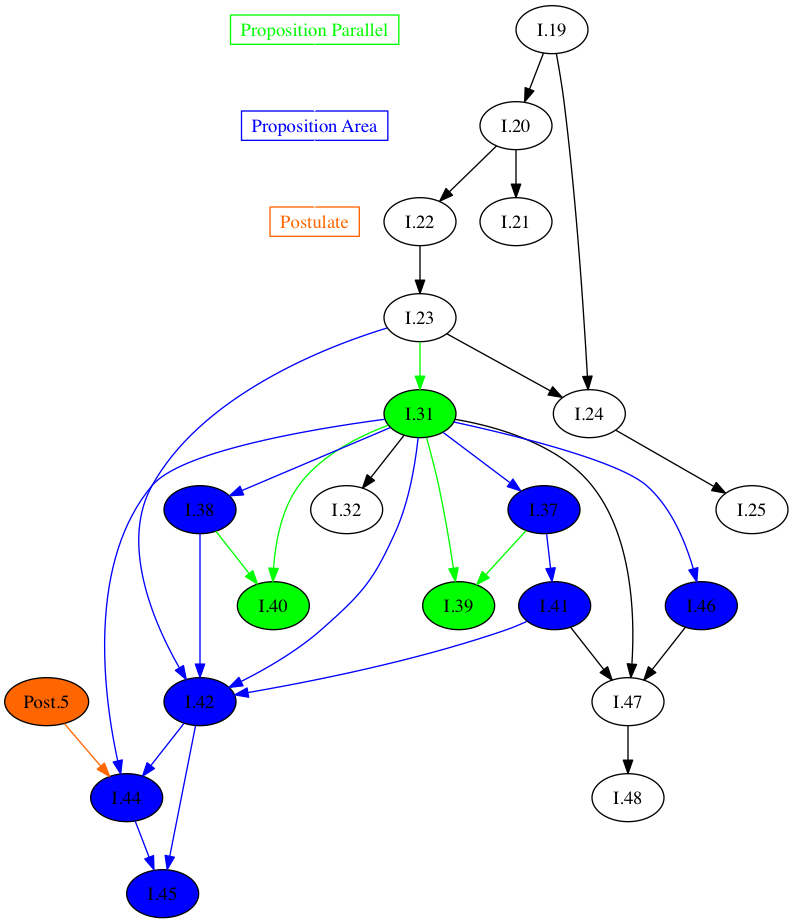
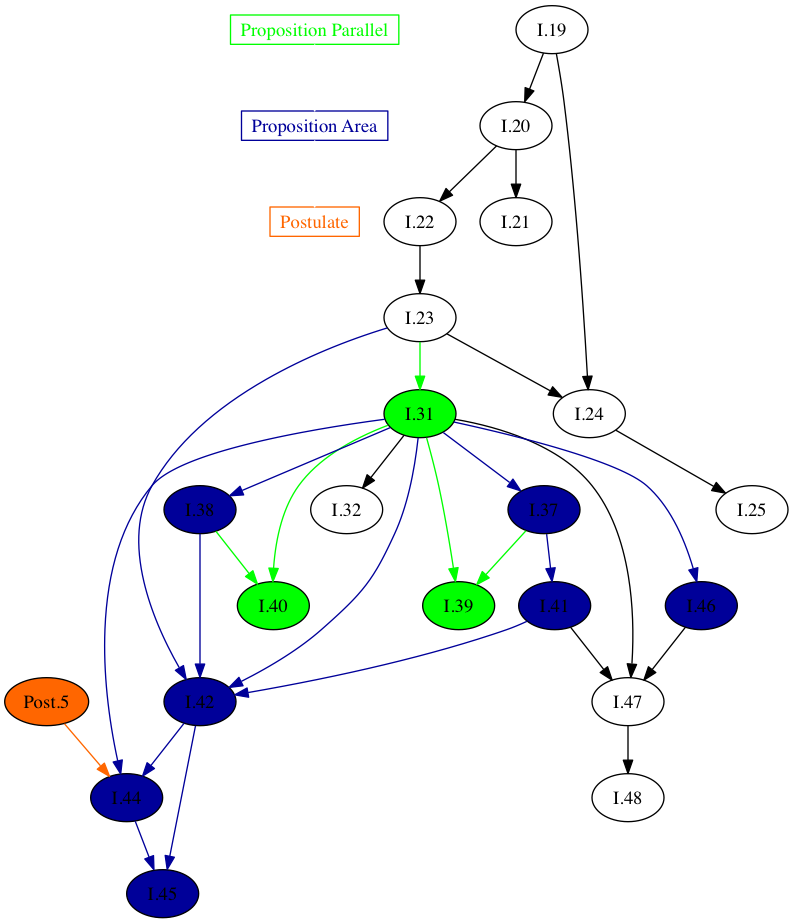
change color

diff --git a/assignment of history of mathematics/draw_structure.py b/assignment of history of mathematics/draw_structure.py
@@ -50,7 +50,7 @@ prop_prop_list = []
 prop_cn_list = []
 prop_post_list = []
 prop_nodes = []
-colors = ['#FF0000', '#00FF00', '#0000FF', '#FF6600', '#FF00FF', ]
+colors = ['#FF0000', '#00FF00', '#0066FF', '#FF6600', '#FF00FF', ]
 
 def add_prop_edges(book_structure, prop, graph):
 	for sub_prop in book_structure[prop]['props']:
@@ -146,10 +146,10 @@ graph.add_edge(pydot.Edge('Proposition Area', 'Postulate', color='white'))
 # graph.add_edge(pydot.Edge('Postulate', 'Common Notion', color='white'))
 
 # add_edges(book_structure, 'I.48', graph)
-add_reverse_edges(book_structure, 'I.19', graph)
+add_reverse_edges(book_structure, 'I.29', graph)
 
 # graph.write_png('I_48.png')
-graph.write_png('I_19.png')
+graph.write_png('I_29.png')
 
 # graph = pydot.Dot(graph_type='digraph')
 # for file in os.listdir('../git/pydot/test/graphs'):
